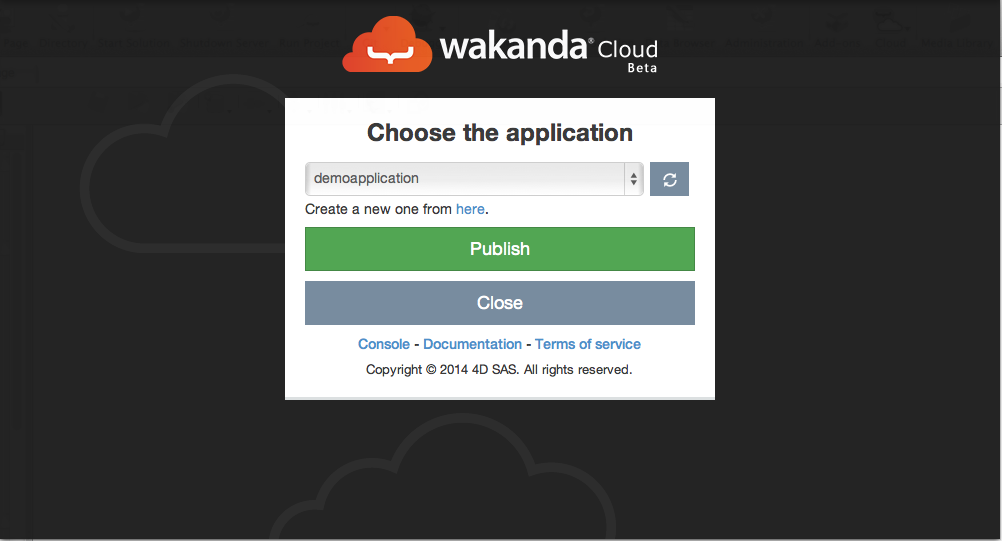
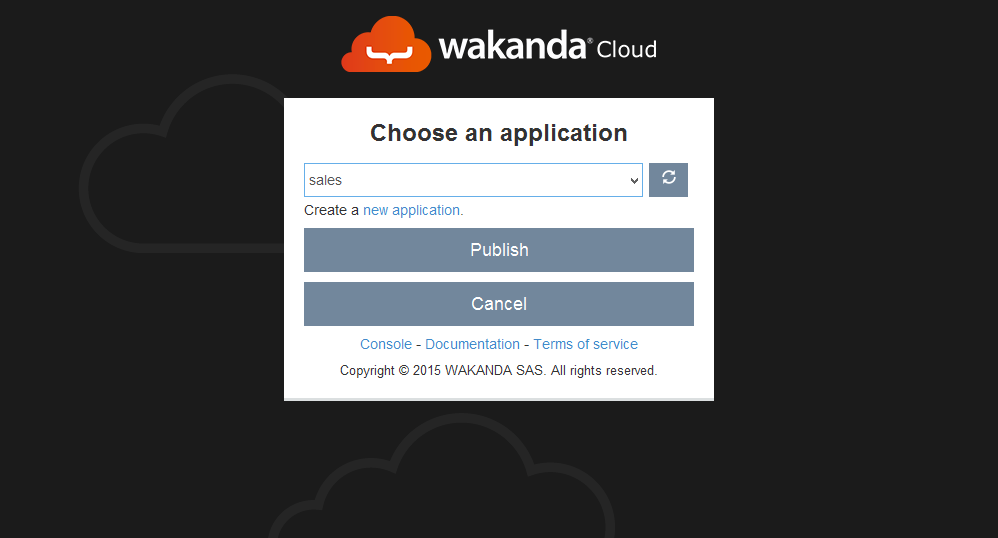
prod docs images

diff --git a/docs/faq.rst b/docs/faq.rst
@@ -27,7 +27,7 @@ Make sure you have enabled the backup in your application's data management view
 How do I report bugs to the Wakanda Cloud team?
 ===============================================
 
-To report a bug to the Wakanda Cloud team you can contact the Cloud Support Team at cloudsupport@wakanda.org
+To report a bug to the Wakanda Cloud team you can contact the [Cloud Support Team!](https://support.wakanda.io).
 
 What version of Wakanda is used on the Wakanda Cloud service?
 =============================================================
@@ -37,7 +37,7 @@ Wakanda Cloud uses Wakanda Enterprise 10.184651
 How do I report a feature request to Wakanda Cloud?
 ===================================================
 
-To report a feature request to Wakanda Cloud use the Cloud Support email address or post your requests on the following forum thread http://forum.wakanda.org/showthread.php?7196-Cloud-Beta-Hotfixes
+To report a feature request to Wakanda Cloud please contact our [Cloud Support Team!](https://support.wakanda.io).
 
 Do I have access to Wakanda's default administration solution?
 ==============================================================
@@ -47,7 +47,7 @@ Wakanda Cloud does not provide access to Wakanda's default administration soluti
 Can I use web-sockets in the application I deploy to the cloud?
 ===============================================================
 
-Wakanda Cloud allows you to use the web-sockets in your applications.
+Wakanda Cloud allows you to use the web-sockets in your applications. however the keep-alive is set to one minute.
 
 Are my solution's configuration settings overwritten when I deploy my application to the cloud?
 ===============================================================================================

diff --git a/docs/application_dashboard.rst b/docs/application_dashboard.rst
@@ -5,7 +5,7 @@ Dashboard
 The main view of the console gives you access to the list of your own and shared applications.
 Each row in the list describes the region the application is created in as well as the offer type and the owner if the application is not yours. it also includes quick action buttons to preview the app, delete it or get its detailed view.
 
-.. image:: images/26_application_list.png
+.. image:: images/application_list.png
 	:align: center
 
 When you select an application from the list, a control panel with different views appears.
@@ -28,12 +28,15 @@ You can access the control panel to manage the state of your remote application.
 
 Summary
 =======
-The summary block displays information regarding memory's and disk space's current usage. It also provides a quick shortcut to the Git repository associated to your app.
+The summary block displays information regarding memory's and disk space's current usage. It also provides a quick shortcut to the Git repository associated to your app and the version of your application's wakanda server.
+
+.. image:: images/3_memory_disk_statistics.png
+	:align: center
 
 .. image:: images/2_git_repository.png
 	:align: center
 
-.. image:: images/3_memory_disk_statistics.png
+.. image:: images/wakanda_version.png
 	:align: center
 
 This summary will help you make the correct decisions about scaling either up or down your application.
@@ -222,7 +225,7 @@ Logs view
 
 The logs view allows you to access your Wakanda Solution's logs.
 
-.. image:: images/log_view.png
+.. image:: images/logs_view.png
 	:align: center	
 
 

diff --git a/docs/getting_started.rst b/docs/getting_started.rst
@@ -91,7 +91,7 @@ Fill in your Wakanda Cloud login information and click  ``Login``. If you want W
 	
 If this is your first deployment, you will need to associate a domain name to your application.
 
-.. image:: images/select_app.png
+.. image:: images/21_publish_window.png
 	:align: center
 
 If the operation was successful, you will receive details about the update. Otherwise, you will receive a message explaining any errors that occurred.
